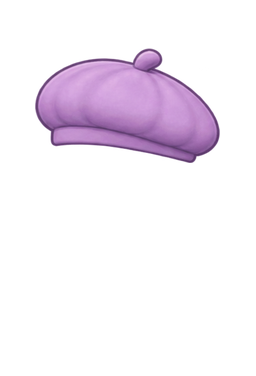
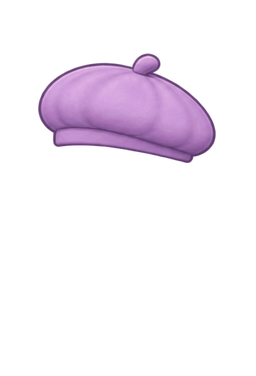
ChatGPT가 새로 그린 모자 4종(베레모·야구모자·버킷햇·머리띠) 넣기
- 템플릿 기준으로 다시 그린 네 방향 그림을 착용 그림으로 맞춰 넣음(원본 시트: assets/avatar/worn-src)
- 가져오기 도구: 네 방향 같은 배율, 옆모습은 뒤통수 기준(챙은 앞으로), 머리띠는 머리 꼭대기 기준

Changed region(s): [[0.125, 0.117, 0.875, 0.4388]]

diff --git a/js/avatar/worn-index.js b/js/avatar/worn-index.js
@@ -3,5 +3,17 @@ window.MP_AVATAR_WORN = [
   "hat_beret_front_down",
   "hat_beret_front_left",
   "hat_beret_front_right",
-  "hat_beret_front_up"
+  "hat_beret_front_up",
+  "hat_bucket_front_down",
+  "hat_bucket_front_left",
+  "hat_bucket_front_right",
+  "hat_bucket_front_up",
+  "hat_cap_front_down",
+  "hat_cap_front_left",
+  "hat_cap_front_right",
+  "hat_cap_front_up",
+  "hat_headband_front_down",
+  "hat_headband_front_left",
+  "hat_headband_front_right",
+  "hat_headband_front_up"
 ];

diff --git a/tools/avatar_import_sheet.py b/tools/avatar_import_sheet.py
@@ -47,14 +47,35 @@ def write_index():
 
 
 def import_hat(sheet, name, width=1.12, dy=(0, 0, 0, 0)):
+    """앞모습 너비로 배율을 정하고, 네 방향 모두 같은 배율(그림 속 크기 비율 그대로)을 씀.
+    앞·뒤는 머리 가운데에, 옆모습은 모자 뒤쪽 끝을 뒤통수에 맞춤(챙은 앞으로 나옴)."""
     parts = components(Image.open(sheet).convert('RGBA'))
     WORN.mkdir(parents=True, exist_ok=True)
+    hu = T.head_union('down'); ys, xs = np.where(hu)
+    s = (xs.max() - xs.min()) * width / parts[0].width
     for d, c, oy in zip(T.DIRS, parts, dy):
         hu = T.head_union(d); ys, xs = np.where(hu)
-        tw = (xs.max() - xs.min()) * width; cx = (xs.max() + xs.min()) / 2
-        s = tw / c.width; nh = round(c.height * s)
-        c = c.resize((round(tw), nh), Image.LANCZOS)
-        out = Image.new('RGBA', (T.W, T.H)); out.alpha_composite(c, (round(cx - tw / 2), T.GUIDE[d]['band'] + oy - nh))
+        w, h = round(c.width * s), round(c.height * s)
+        c = c.resize((w, h), Image.LANCZOS)
+        if d == 'left': x = xs.max() + 6 - w           # 왼쪽을 봄: 뒤통수는 화면 오른쪽
+        elif d == 'right': x = xs.min() - 6            # 오른쪽을 봄: 뒤통수는 화면 왼쪽
+        else: x = round((xs.max() + xs.min()) / 2 - w / 2)
+        out = Image.new('RGBA', (T.W, T.H)); out.alpha_composite(c, (x, T.GUIDE[d]['band'] + oy - h))
+        out.save(WORN / f'hat_{name}_front_{d}.png')
+        print(f'hat_{name}_front_{d}.png  배율 {s:.3f}  크기 {c.size}  x {x}')
+
+
+def import_headband(sheet, name='headband', width=1.0, dy=(0, 0, 0, 0)):
+    """머리띠: 머리카락 위에 얹으므로 띠 윗부분을 머리 꼭대기에 맞춤. 네 방향 같은 배율."""
+    parts = components(Image.open(sheet).convert('RGBA'))
+    hu = T.head_union('down'); ys, xs = np.where(hu)
+    s = (xs.max() - xs.min()) * width / parts[0].width
+    for d, c, oy in zip(T.DIRS, parts, dy):
+        hu = T.head_union(d); ys, xs = np.where(hu)
+        w, h = round(c.width * s), round(c.height * s)
+        c = c.resize((w, h), Image.LANCZOS)
+        cx = (xs.max() + xs.min()) / 2 + {'left': 10, 'right': -10}.get(d, 0)   # 옆모습: 정수리보다 살짝 뒤
+        out = Image.new('RGBA', (T.W, T.H)); out.alpha_composite(c, (round(cx - w / 2), ys.min() + 3 + oy))
         out.save(WORN / f'hat_{name}_front_{d}.png')
         print(f'hat_{name}_front_{d}.png  배율 {s:.3f}  크기 {c.size}')
 
@@ -66,5 +87,6 @@ if __name__ == '__main__':
     if '--dy' in args: i = args.index('--dy'); dy = tuple(int(v) for v in args[i + 1].split(',')); del args[i:i + 2]
     sheet, kind, name = args[0], args[1], args[2]
     if kind == 'hat': import_hat(sheet, name, width, dy)
-    else: raise SystemExit('지원하는 종류: hat')
+    elif kind == 'headband': import_headband(sheet, name, width if '--width' in sys.argv else 1.0, dy)
+    else: raise SystemExit('지원하는 종류: hat, headband')
     print('목록:', ', '.join(write_index()))
